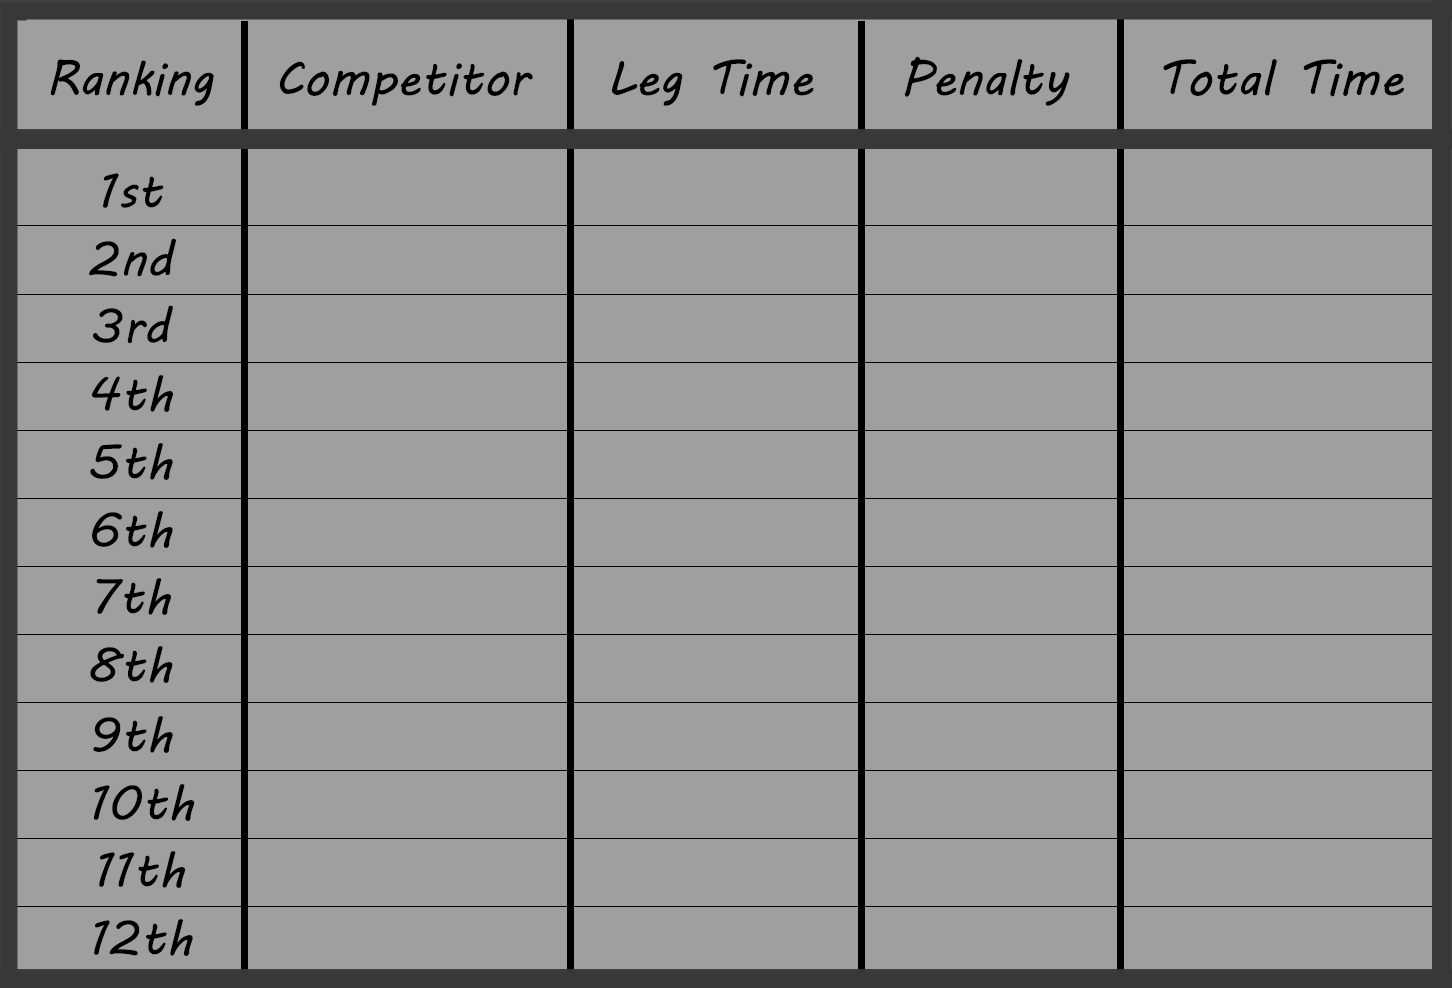
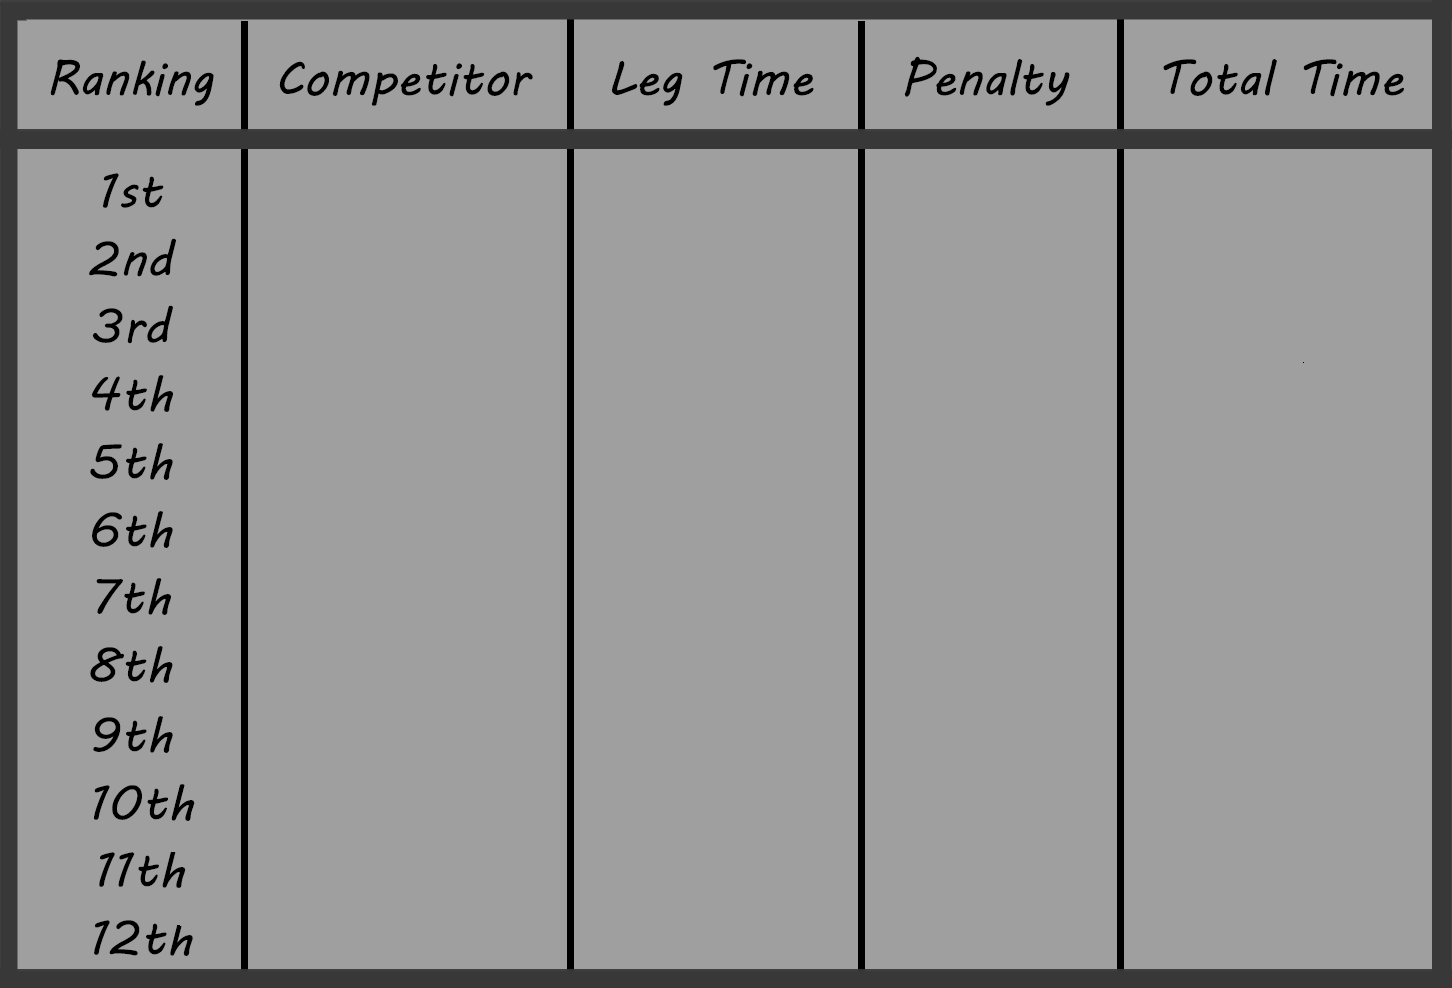
Sorted out results screen

diff --git a/core/src/com/teamonehundred/pixelboat/SceneResultsScreen.java b/core/src/com/teamonehundred/pixelboat/SceneResultsScreen.java
@@ -131,40 +131,76 @@ class SceneResultsScreen implements Scene {
     public void drawStatic(SpriteBatch batch) {
         batch.begin();
 
-        // Draw text instructions at the top of the screen
-        font.setColor(Color.ORANGE);
-        font.draw(batch, "Results Screen! Click on the screen to skip and start the next leg!",
-                fill_camera.viewportWidth / 3, 15 * (fill_camera.viewportHeight / 16));
-
         // Draw text instructions for the timing format that will be displayed
         font.setColor(Color.YELLOW);
         font.draw(batch, "BoatName | Race Time in ms | Race penalty in ms",
                 fill_camera.viewportWidth / 3, 14 * (fill_camera.viewportHeight / 16));
 
-        batch.draw(results_table, fill_camera.viewportWidth / 3,   fill_camera.viewportHeight / 8, 500, 450);
+        int column_num;
+        int column_idx;
+        String label_template;
 
-        String label_template = "%s | %d ms | %d ms";//"A boat (%s) ended race with time (ms) %d (%d ms was penalty)";
+        //Writes the best times to the screen if it's the final leg
+        if (leg_no >= 4) {
+            // Draw text instructions at the top of the screen
+            font.setColor(Color.ORANGE);
+            font.draw(batch, "Best times of the day! Hope you enjoyed your time at the races!",
+                    fill_camera.viewportWidth / 3, 15 * (fill_camera.viewportHeight / 16));
 
-        // Initialise values for drawing times as table in order to allow dynamic wrapping
-        int column_num = -1;
-        int column_idx = -1;
-        for (int top_boats = 0; top_boats <= 13; top_boats++) {
-            if (boats.get(top_boats) instanceof PlayerBoat) {
-                font.setColor(Color.RED); // Colour Player's time in red
-            } else {
-                font.setColor(Color.WHITE); // All AI-boat times in white
+            batch.draw(results_table, fill_camera.viewportWidth / 3, fill_camera.viewportHeight / 8, 500, 450);
+
+            label_template = "%s | %d ms | %d ms";//"A boat (%s) ended race with time (ms) %d (%d ms was penalty)";
+
+            // Initialise values for drawing times as table in order to allow dynamic wrapping
+            column_num = -1;
+            column_idx = -1;
+            for (int top_boats = 0; top_boats <= 13; top_boats++) {
+                if (boats.get(top_boats) instanceof PlayerBoat) {
+                    font.setColor(Color.RED); // Colour Player's time in red
+                } else {
+                    font.setColor(Color.WHITE); // All AI-boat times in white
+                }
+
+                // Writes out the details of all the boats into the table
+                font.draw(batch, boats.get(top_boats).getName(), 5 * (fill_camera.viewportWidth / 12), (470 * (fill_camera.viewportHeight / 720)) - (27 * top_boats));
+                String ttf = "%02d:%02d";
+                long total_time = boats.get(top_boats).getCalcTime();
+                font.draw(batch, String.format(ttf, total_time / 60000, total_time / 1000 % 60), 8 * (fill_camera.viewportWidth / 12), (470 * (fill_camera.viewportHeight / 720)) - (27 * top_boats));
+
             }
 
-            // Writes out the details of all the boats into the table
-            font.draw(batch, boats.get(top_boats).getName(), 5 * (fill_camera.viewportWidth / 12), (470 * (fill_camera.viewportHeight / 720)) - (27 * top_boats));
-            long time_to_finish = boats.get(top_boats).getLegTimes().get(boats.get(top_boats).getLegTimes().size() - 1);
-            String ttf = "%02d:%02d";
-            font.draw(batch, String.format(ttf, time_to_finish / 60000, time_to_finish / 1000 % 60) , 6 * (fill_camera.viewportWidth / 12), (470 * (fill_camera.viewportHeight / 720)) - (27 * top_boats));
-            long added_time = boats.get(top_boats).getTimeToAdd();
-            font.draw(batch, String.format(ttf, added_time / 60000, added_time / 1000 % 60) , 7 * (fill_camera.viewportWidth / 12), (470 * (fill_camera.viewportHeight / 720)) - (27 * top_boats));
-            long total_time = boats.get(top_boats).getCalcTime();
-            font.draw(batch, String.format(ttf, total_time / 60000, total_time / 1000 % 60) , 8 * (fill_camera.viewportWidth / 12), (470 * (fill_camera.viewportHeight / 720)) - (27 * top_boats));
+        } else {
+            // Draw text instructions at the top of the screen
+            font.setColor(Color.ORANGE);
+            font.draw(batch, "Results Screen! Click on the screen to skip and start the next leg!",
+                    fill_camera.viewportWidth / 3, 15 * (fill_camera.viewportHeight / 16));
 
+            batch.draw(results_table, fill_camera.viewportWidth / 3, fill_camera.viewportHeight / 8, 500, 450);
+
+            label_template = "%s | %d ms | %d ms";//"A boat (%s) ended race with time (ms) %d (%d ms was penalty)";
+
+            // Initialise values for drawing times as table in order to allow dynamic wrapping
+            column_num = -1;
+            column_idx = -1;
+            for (int top_boats = 0; top_boats <= 13; top_boats++) {
+                if (boats.get(top_boats) instanceof PlayerBoat) {
+                    font.setColor(Color.RED); // Colour Player's time in red
+                } else {
+                    font.setColor(Color.WHITE); // All AI-boat times in white
+                }
+
+                // Writes out the details of all the boats into the table
+                font.draw(batch, boats.get(top_boats).getName(), 5 * (fill_camera.viewportWidth / 12), (470 * (fill_camera.viewportHeight / 720)) - (27 * top_boats));
+                long time_to_finish = boats.get(top_boats).getLegTimes().get(boats.get(top_boats).getLegTimes().size() - 1);
+                String ttf = "%02d:%02d";
+                font.draw(batch, String.format(ttf, time_to_finish / 60000, time_to_finish / 1000 % 60), 6 * (fill_camera.viewportWidth / 12), (470 * (fill_camera.viewportHeight / 720)) - (27 * top_boats));
+                long added_time = boats.get(top_boats).getTimeToAdd();
+                System.out.println(added_time);
+                font.draw(batch, String.format(ttf, added_time / 60000, added_time / 1000 % 60), 7 * (fill_camera.viewportWidth / 12), (470 * (fill_camera.viewportHeight / 720)) - (27 * top_boats));
+                long total_time = boats.get(top_boats).getCalcTime();
+                font.draw(batch, String.format(ttf, total_time / 60000, total_time / 1000 % 60), 8 * (fill_camera.viewportWidth / 12), (470 * (fill_camera.viewportHeight / 720)) - (27 * top_boats));
+
+            }
         }
 
         // End a sprite batch drawing

diff --git a/core/src/com/teamonehundred/pixelboat/Boat.java b/core/src/com/teamonehundred/pixelboat/Boat.java
@@ -444,6 +444,7 @@ public abstract class Boat extends MovableObject implements CollisionObject {
     /**
      * Sets the stats of the boat based on the spec_id that was allocated to it
      * @author Dragos Stoican
+     * @modifiedby Samuel Plane
      */
     public void setStats(int difficulty) {
         switch (spec_id) {
@@ -516,16 +517,15 @@ public abstract class Boat extends MovableObject implements CollisionObject {
      * @return long time in milliseconds.
      */
     public long getBestTime() {
+        // Modified block of code for assessment 2
         long current_best = 500000;
-        System.out.println(name);
 
         for (long time : leg_times) {
-            System.out.print(time);
             if (time < current_best) {
-                System.out.println("swap");
                 current_best = time;
             }
         }
+        // End of modified block of code for assessment 2
         return current_best;
     }
 }
